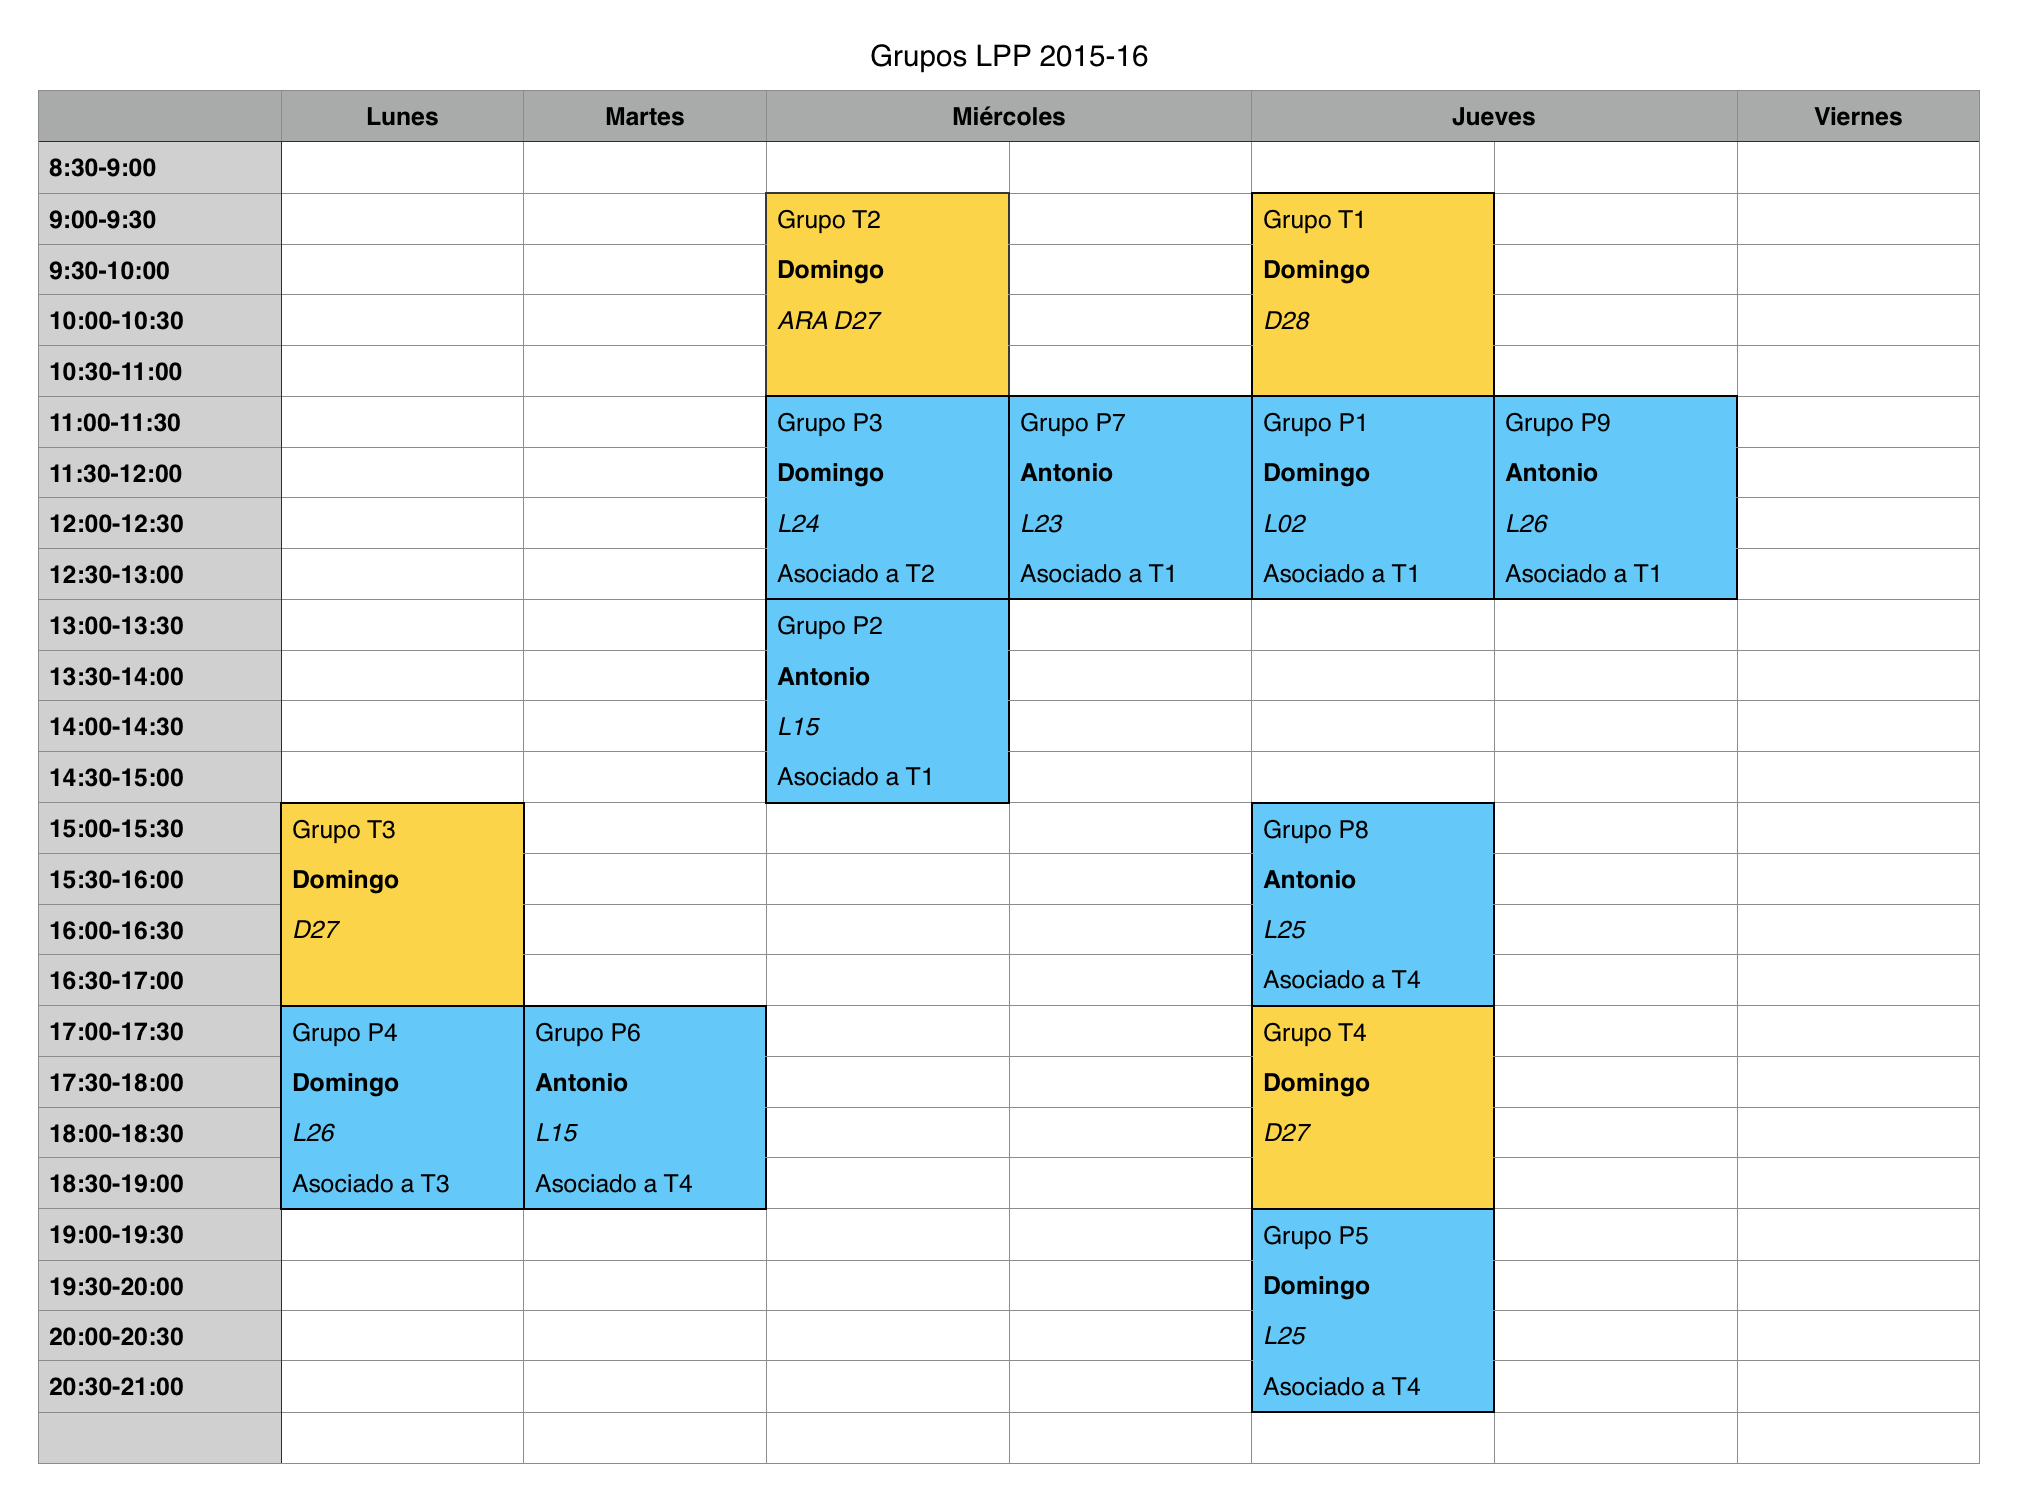
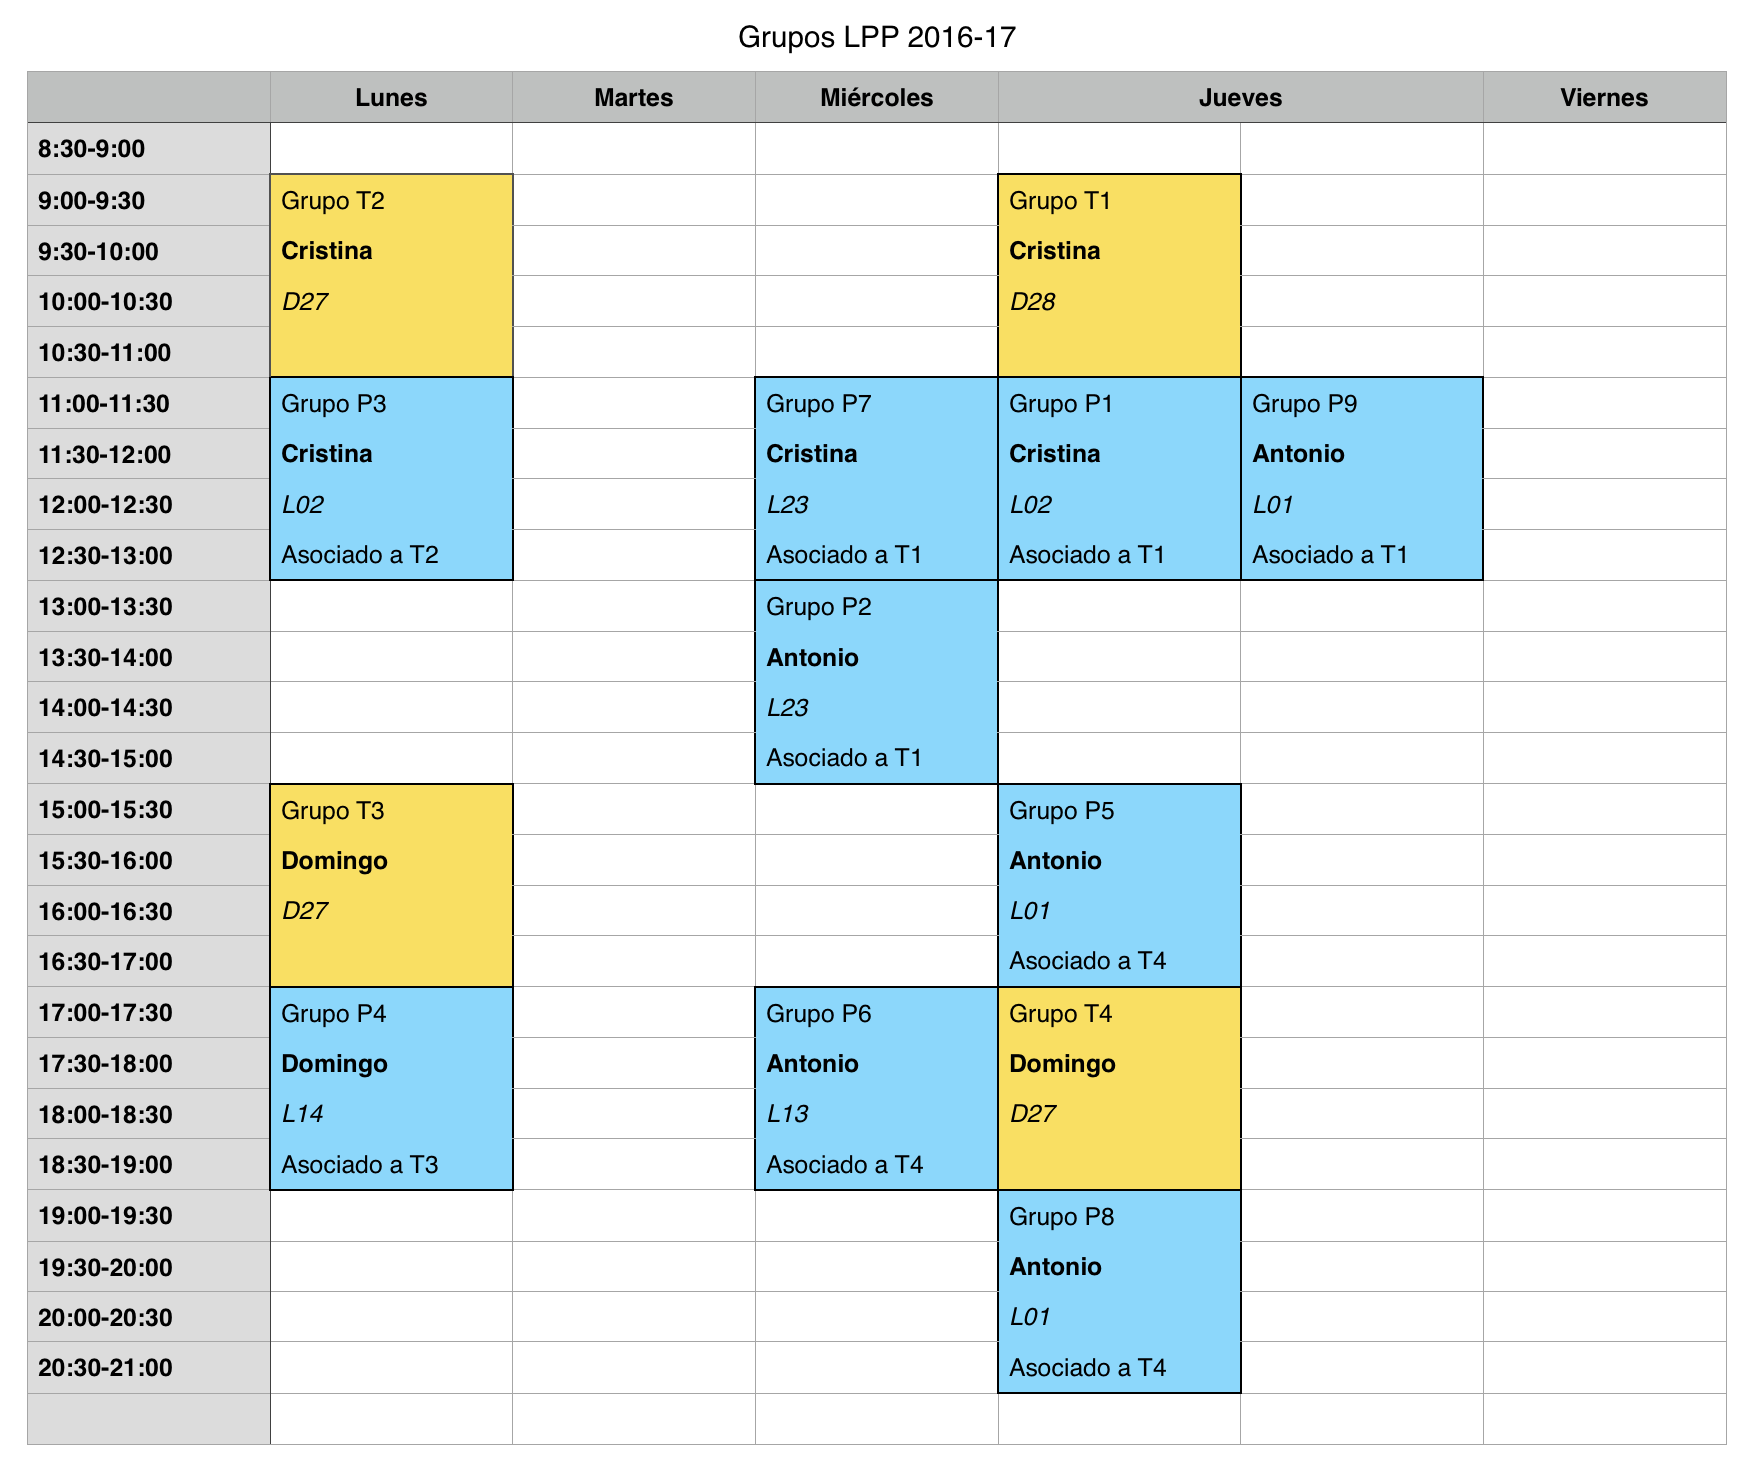
Cambios en el tema 0

diff --git a/teoria/tema00-descripcion-asignatura/tema00-descripcion-asignatura.md b/teoria/tema00-descripcion-asignatura/tema00-descripcion-asignatura.md
@@ -1,10 +1,9 @@
 
 ## Lenguajes y Paradigmas de Programación
 
-Toda la información está disponible en la
-[ficha del campus virtual](http://cv1.cpd.ua.es/ConsPlanesEstudio/cvFichaAsiEEES.asp?wCodEst=C203&wcodasi=34017&wLengua=C&scaca=2015-16)
-y en el
-[sitio Moodle de LPP](https://moodle2014-15.ua.es/moodle/course/view.php?id=4762)
+Toda la información está disponible en el [sitio Moodle de LPP](https://moodle2016-17.ua.es/moodle/course/view.php?id=942) y en la
+[ficha del campus virtual](http://cv1.cpd.ua.es/ConsPlanesEstudio/cvFichaAsiEEES.asp?wCodEst=C203&wcodasi=34017&wLengua=C&scaca=2016-17).
+
 
 ### Datos académicos de la asignatura
 
@@ -13,15 +12,16 @@ y en el
 prácticas de 2 h. a la semana  
 **Profesores**:  
 
-* Antonio Botía ([e-mail](mailto:abotia@dccia.ua.es)): Grupos 2, 6, 7, 8 y 9 de prácticas
-* Domingo Gallardo ([e-mail](mailto:domingo.gallardo@ua.es)): Grupos de teoría y 1, 3, 4 y 5 de prácticas
+* Antonio Botía ([e-mail](mailto:abotia@dccia.ua.es)): Grupos de prácticas: 2, 5, 6, y 9.
+* Domingo Gallardo ([e-mail](mailto:domingo.gallardo@ua.es)): Profesor coordinador de la asignatura. Grupos de teoría: 3 y 4. Grupos de prácticas: 4 y 8.
+* Cristina Pomares ([e-mail](mailto:cpomares@ua.es)): Grupos de teoría: 1 y 2. Grupos de prácticas: 1, 3 y 7.
 
 ### Recursos de la asignatura
 
-* [Sitio Moodle](https://moodle2014-15.ua.es/moodle/course/view.php?id=4762)
+* [Sitio Moodle](https://moodle2016-17.ua.es/moodle/course/view.php?id=942)
   abierto y accesible a toda la comunidad educativa, contiene los
   apuntes, transparencias, prácticas y otros materiales docentes
-* [Foro de consultas y anuncios](https://moodle2014-15.ua.es/moodle/course/view.php?id=4762)
+* [Foro de consultas y anuncios](https://moodle2016-17.ua.es/moodle/mod/forum/view.php?id=8086)
   en el sitio Moodle (sólo accesible a estudiantes)
 
 ### Objetivos y competencias
@@ -29,10 +29,10 @@ prácticas de 2 h. a la semana
 **Objetivos**:
 
 * ¿Qué elementos son comunes a los lenguajes de programación? 
-* ¿Qué características tienen? 
-* ¿Cuáles son los elementos esenciales y los accesorios? 
 * ¿Qué familias o paradigmas de lenguajes podemos identificar? 
-* ¿Cómo diseñar un buen lenguaje de programación? 
+* ¿Qué es la programación funcional?
+* ¿Cómo es un lenguaje multi-paradigma que combina la programación
+  funcional y la programación orientada a objetos?
  
 Dominando estos contenidos será mucho más fácil aprender nuevos
 lenguajes de programación, identificar sus aspectos esenciales e
@@ -45,17 +45,15 @@ dominios concretos.
   paradigmas de programación (programación funcional, procedural y
   orientada a objetos) e identificarlas en lenguajes de programación
   concretos.
-* Conocer los elementos que componen los lenguajes de programación
-  (estructuras de control, procedimientos, tipos de datos) y distintas
-  implementaciones de estos elementos en distintos lenguajes.
 * Diferenciar entre tiempo de ejecución y tiempo de compilación en
   distintos ámbitos: detección de errores o definición, creación o
   ámbito de vida de variables.
-* Conocer modelos de computación específicos que expliquen la
-  semántica de los lenguajes de programación. En concreto: modelo de
-  sustitución para la programación funcional y modelo de entornos para
-  explicar el ámbito y los valores de los variables en la programación
-  procedural.
+* Conocer los principios básicos de la programación funcional:
+  recursión, inmutabilidad, funciones como objetos de primera clase,
+  funciones de orden superior, expresiones lambda (clausuras).
+* Conocer los problemas derivados del uso de la mutación en los
+  lenguajes de programación imperativos y la forma de trabajar con
+  estructuras inmutables en lenguajes declarativos y funcionales.
 * Utilizar la abstracción y la recursión para diseñar correctamente
   procedimientos y estructuras de datos (listas y árboles).
 * Ser capaz de diseñar, implementar y corregir programas funcionales,
@@ -65,10 +63,6 @@ dominios concretos.
 * Comparar el paradigma orientado a objetos con el paradigma
   procedural clásico, reconociendo las ventajas que aporta en cuanto a
   abstracción, reutilización y modificación de código.
-* Conocer los elementos fundamentales de la abstracción aplicada al
-  diseño de lenguajes de programación. Ser capaz de diseñar un
-  sencillo lenguaje orientado a un dominio restringido (DSL).
-* Conocer los principios básicos del paradigma de programación lógica.
 
 ### Temario
 
@@ -76,48 +70,47 @@ dominios concretos.
   programación. Elementos de los lenguajes de
   programación. Abstracción. Paradigmas de programación. Compiladores
   e intérpretes.
-* Seminario 1. **El lenguaje de programación Scheme**:
-  Primitivas. Tipos de datos
-  básicos. Símbolos. Cadenas. Listas. Definición de funciones.
 * Tema 2. **Programación Funcional**: Características e historia del
   paradigma de Programación Funcional. Características declarativas
   del paradigma funcional. Definición de funciones. Funciones como
   datos de primer orden. La forma especial lambda. Ámbito de variables
-  y closures. Dualidad entre datos y programas: formas especiales
-  apply y eval. Datos compuestos en Scheme: parejas. Construcción,
+  y closures. Datos compuestos en Scheme: parejas. Construcción,
   recorrido y operaciones sobre listas. Listas con elementos
   compuestos. Listas de listas.
-* Tema 3. **Procedimientos y estructuras recursivas**: Diseño de
+* Tema 3. **Procedimientos recursivos**:  Diseño de
   funciones recursivas. Recursión mutua. Procesos recursivos e
-  iterativos. Memoization. Estructuras de datos recursivas:
-  expresiones-s, árboles binarios y árboles genéricos.
-* Tema 4. **Programación Imperativa**: Historia del paradigma de
+  iterativos. Memoization. Recursión y gráficos de tortuga. 
+* Tema 4. **Estructuras recursivas**: Estructuras de datos recursivas:
+  listas estructuradas y árboles.
+* Tema 5. **Programación Imperativa**: Historia del paradigma de
   programación imperativo. Características principales. Datos
   mutables. Datos mutables en Scheme. Estructuras de datos mutables en
   Scheme. Ámbito de variables dinámico y modelo de entornos en
   Scheme. Estado local.
-* Seminario 2. **El lenguaje de programación Swift**. Intérprete y
-  scripts. Tipos de datos básicos. Operadores. Estructuras de
-  control. Ámbito de variables. Tipos de datos compuestos: tuplas,
-  arrays y colecciones. Recorriendo colecciones. Valores mutables e
-  inmutables. Inicialización. Tipos de referencia y valor en Swift.
-* Tema 5. **Programación funcional en Swift**: Lenguajes
+* Tema 6. **Programación funcional en Swift**: Lenguajes
   multiparadigma. Programación funcional en Swift. Valores
   opcionales. Listas. Recursión pura y recursión por la
   cola. Funciones como datos de primer orden. Clousures y funciones
   anónimas. Funciones de orden superior: mappings y filtros de
   colecciones.
-* Tema 6. **Programación Orientada a Objetos**: Características e
+* Tema 7. **Programación Orientada a Objetos en Swift**: Características e
   historia del paradigma de Programación Orientada a
   Objetos. Estructuras y clases en Swift. Herencia. Conceptos
   avanzados de POO en Swift: Extensiones, Protocolos y
   Genéricos. Gestión de errores.
-* Tema 7. **Programación Lógica**: El paradigma de programación
-  lógica. Programación lógica en Scheme. Clausulas y
-  objetivos. Backtracking. Unificación. Operadores lógicos. Variables.
 
-El calendario de temas, prácticas y exámenes está disponible en la
-ficha de la asignatura.
+Seminarios:
+
+* Seminario 1. **El lenguaje de programación Scheme**:
+  Primitivas. Tipos de datos
+  básicos. Símbolos. Cadenas. Listas. Definición de funciones.
+* Seminario 2. **El lenguaje de programación Swift**. Intérprete y
+  scripts. Tipos de datos básicos. Operadores. Estructuras de
+  control. Ámbito de variables. Tipos de datos compuestos: tuplas,
+  arrays y colecciones. Recorriendo colecciones. Valores mutables e
+  inmutables. Inicialización. Tipos de referencia y valor en Swift.
+
+El calendario de temas, prácticas y exámenes está disponible en Moodle.
 
 ### Prácticas
 
@@ -151,7 +144,7 @@ problemas.
 
 ### Horarios
 
-La distribución de grupos del curso 2015-16 es la siguiente:
+La distribución de grupos del curso 2016-17 es la siguiente:
 
 <img src="imagenes/horario.png" width="700px"/>
 
@@ -160,43 +153,20 @@ La distribución de grupos del curso 2015-16 es la siguiente:
 #### Convocatoria normal (evaluación continua)
 
 En la convocatoria de junio se realizará una evaluación continua con
-tres exámenes parciales y con la evaluación semanal de los ejercicios
-prácticos. Todos los exámenes parciales ponderarán un 30% en la nota
-final. Se exige una nota mínima de 3 en los dos últimos parciales. Los
-exámenes consistirán en pruebas y ejercicios similares a las
-realizadas en las clases prácticas, por lo que es fundamental su
-seguimiento puntual.
+tres exámenes parciales, que ponderarán un 33%, 33% y 34% en la nota
+final.
 
-La entrega de las prácticas ponderará un 10% en la nota final, siendo
-esta calificación no recuperable en la convocatoria extraordinaria
-(julio). Si se detecta alguna copia en alguna de las entregas de
-prácticas, quedarán invalidadas automáticamente todas las
-calificaciones de todas las entregas, obteniéndose un 0 en este
-apartado. Cada práctica se calificará con una nota de entre 0 y 10
-dependiendo del número de ejercicios realizados correctamente.
-
-* Convocatoria normal (evaluación continua)
-	* Parcial 1 (30%, sin nota mínima): Temas 1, 2 y Seminario Scheme - 10 de marzo 
-	* Parcial 2 (30%, nota mínima de 3): Temas 3 y 4 - 21 de abril
-	* Parcial 3 (30%, nota mínima de 3): Seminario Swift y temas 5 y 6  - 8 de junio
-	* Entrega de prácticas (10%)
-	* La nota final se calculará con la media ponderada de las 4 notas anteriores
+Las entregas de las prácticas no ponderarán para la calificación
+final, pero son esenciales para el aprendizaje de los conceptos y
+técnicas de la asignatura. Junto con la realización de las prácticas,
+también recomendamos encarecidamente la revisión de sus soluciones
+(que iremos publicando también semana a semana) y de los ejemplos
+de código presentados en teoría.
 
 #### Convocatoria extraordinaria
 
-En la convocatoria de julio habrán dos modalidades:
-
-* *Examen final completo*: dirigido a los alumnos que han suspendido 2
-  o tres parciales. La nota final de la asignatura será la nota
-  obtenida en este examen ponderada en un 90% más la nota de entrega
-  de prácticas ponderada en un 10%.
-
-* *Recuperación de parciales*: aquellos alumnos que hayan suspendido
-  un único parcial, podrán recuperarlo. La calificación obtenida en el
-  examen de recuperación sustituye a la calificación del parcial en la
-  evaluación continua. La nota final se calculará con la misma
-  ponderación que en la evaluación continua: cada parcial pondera un
-  30% y la nota de entrega de prácticas un 10%.
+En la convocatoria de julio se realizará un examen final sobre todos
+los contenidos impartidos en el curso.
 
 #### Consejos para aprender con éxito los contenidos de la asignatura
 
@@ -209,13 +179,14 @@ anteriores.
 ¿Cómo estudiar estos conceptos? Con la excepción de algunos temas y
 apartados concretos (como la historia de los lenguajes de programación
 o las características de los distintos paradigmas) la asignatura es
-fundamentalmente práctica. No tiene sentido aprender de memoria los
-ejercicios y los ejemplos vistos en clase. Hay que *trabajarlos*. Eso
-significa que, primero, hay que entenderlos sobre el papel y *muy
-importante* hay que **probar todos los ejemplos en el intérprete (el
-REPL)**. Y *probar* significa escribir los ejemplos y jugar con ellos,
-proponiendo pequeñas variantes, preguntándose *¿qué pasaría si...?* y
-probándolo.
+fundamentalmente práctica. Cuando hablamos de *estudiar* los ejemplos
+de código queremos decir **entenderlos, no aprenderlos de
+memoria**. No tiene sentido aprender de memoria los ejercicios y los
+ejemplos vistos en clase. Hay que *trabajarlos*. Eso significa que,
+primero, hay que entenderlos sobre el papel y *muy importante* hay que
+**probar todos los ejemplos en el intérprete (el REPL)**. Y *probar*
+significa escribir los ejemplos y jugar con ellos, proponiendo
+pequeñas variantes, preguntándose *¿qué pasaría si...?* y probándolo.
 
 En cuanto a las prácticas y a los ejercicios propuestos es fundamental
 pelearse con ellos e intentar hacerlos por uno mismo **sin ver ninguna
@@ -291,9 +262,9 @@ Plantearse uno mismo problemas:
 
 ### Bibliografía
 
-En Moodle se irán publicando semana a semana los apuntes de la
-asignatura, con ejercicios, explicaciones y ejemplos de todos los
-conceptos estudiados, tanto en teoría como en práctica.
+En Moodle publican los apuntes de la asignatura, con ejercicios,
+explicaciones y ejemplos de todos los conceptos estudiados, tanto en
+teoría como en práctica.
 
 Para ampliar algunos conceptos se recomiendan los dos siguientes manuales:
 
@@ -306,7 +277,7 @@ Para ampliar algunos conceptos se recomiendan los dos siguientes manuales:
 
 <img src="imagenes/swift-cover.png" width="170px"/>
 
-* Apple, *The Swift Programming Language (Swift 2.1)*, 2015
+* Apple, *The Swift Programming Language (Swift 3.0.1)*, 2016
 * [Web](https://developer.apple.com/library/ios/documentation/Swift/Conceptual/Swift_Programming_Language/)
 
 ----
